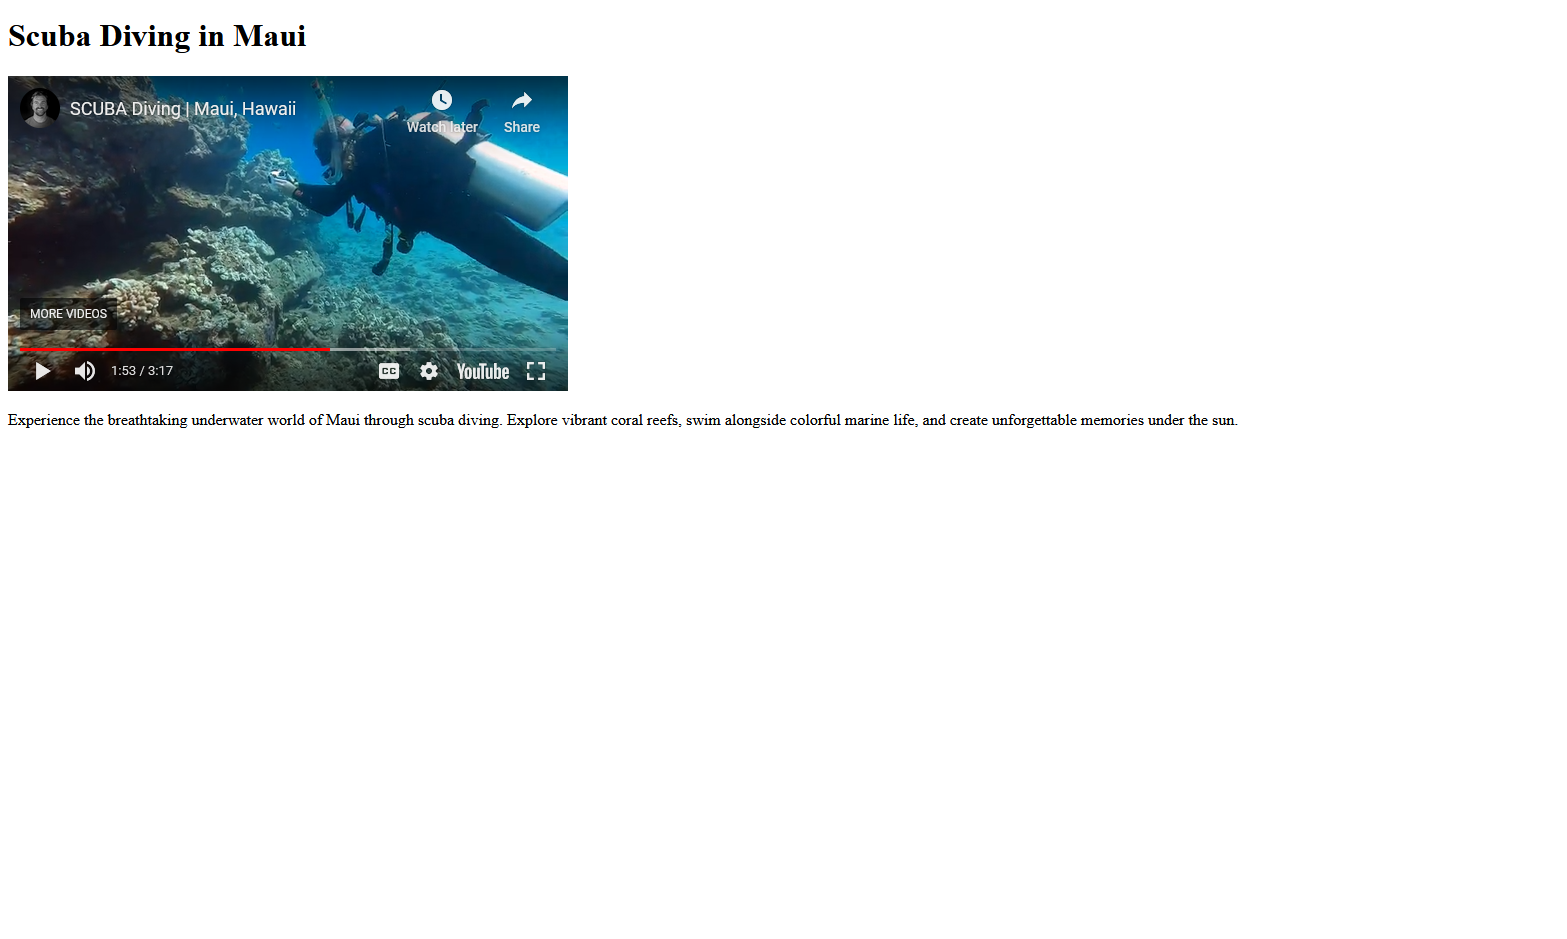
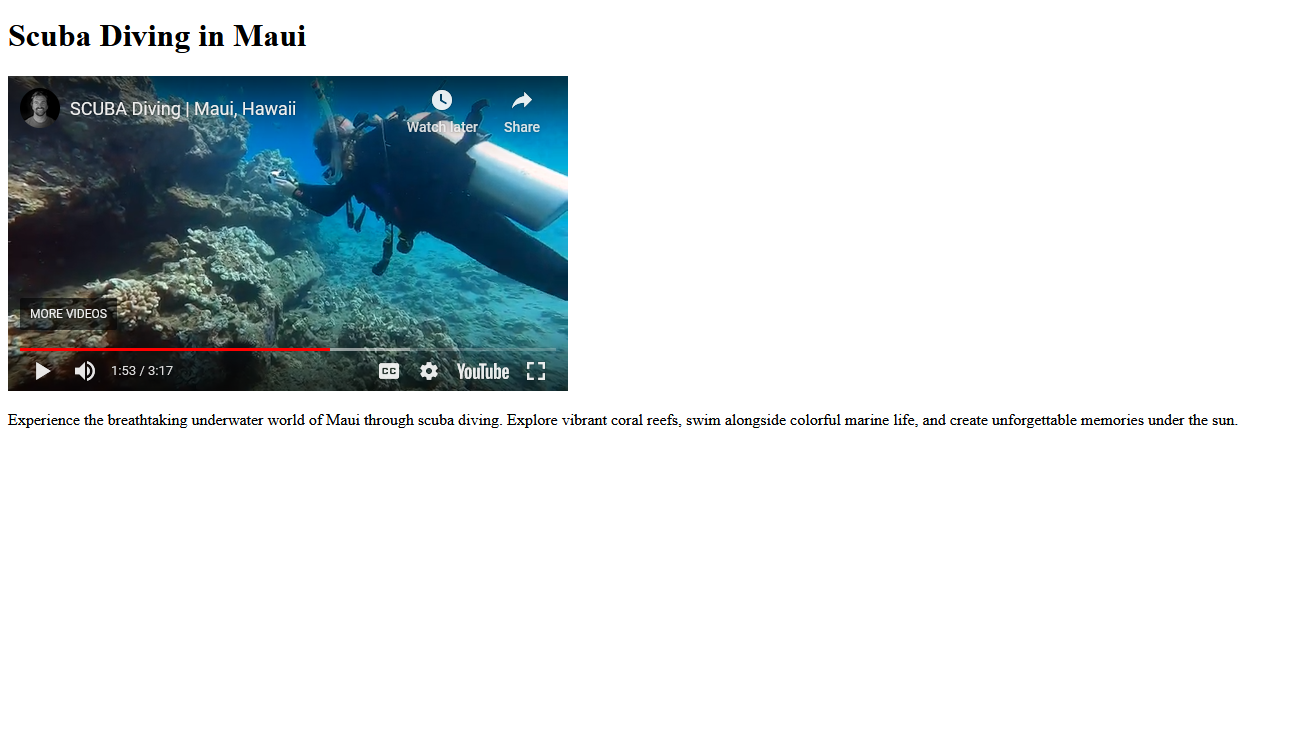
assignment details

Changed region(s): [[0.0, 0.0312, 0.7933, 0.5312], [0.0, 0.5625, 0.9458, 0.5938]]

diff --git a/README.md b/README.md
@@ -4,6 +4,16 @@
 
 For this assignment, you will create a multi-page website that highlights various outdoor adventure destinations around the world. Your website should consist of interconnected pages, each showcasing a different adventure location.
 
+
+<div style="display: flex; flex-direction: column; justify-content: center;  align-items: center;
+">
+  <img src="./Example/index.png" width="300" height="170" />
+  <div style="display: flex; ">
+    <img src="./Example/mauiAdventure.png" width="300" style="margin-right: 1%; margin-top: 1%"/> 
+    <img src="./Example/yellowstoneAdventure.png" width="300" style="margin-left: 1%; margin-top: 1%" />
+  </div>
+</div>
+
 ### Instructions
 #### Add the following changes to the landing page (index.html):  
 - Display a header that says 'Outdoor Adventures' at the top of the page with a header tag (h1, h2, or h3)  
